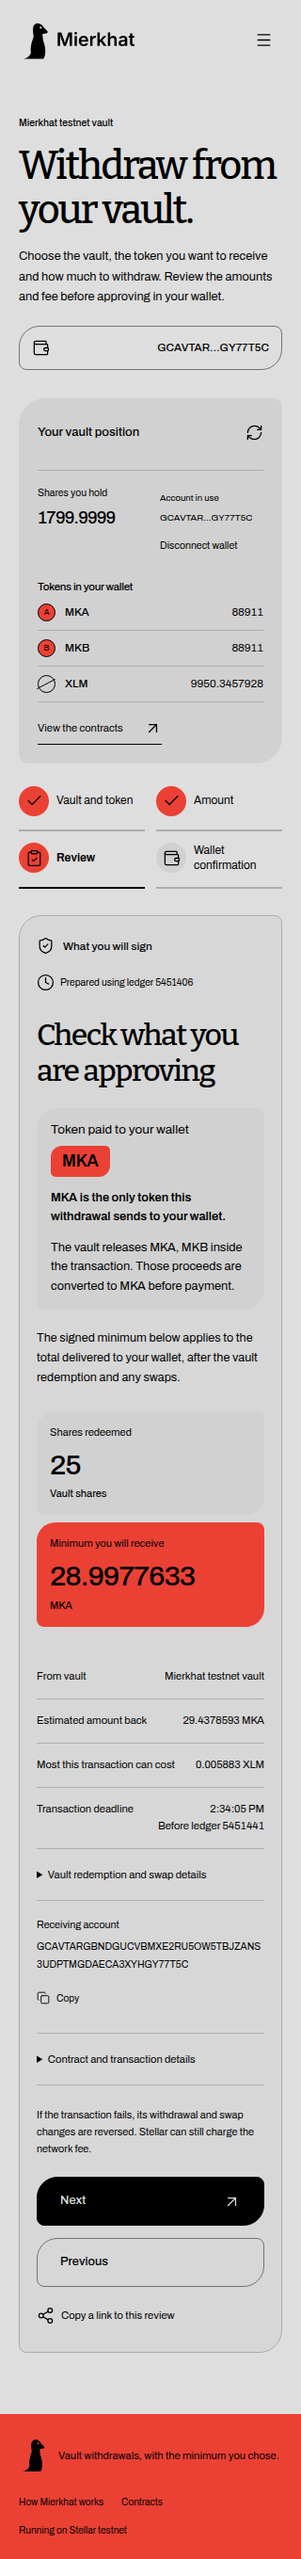
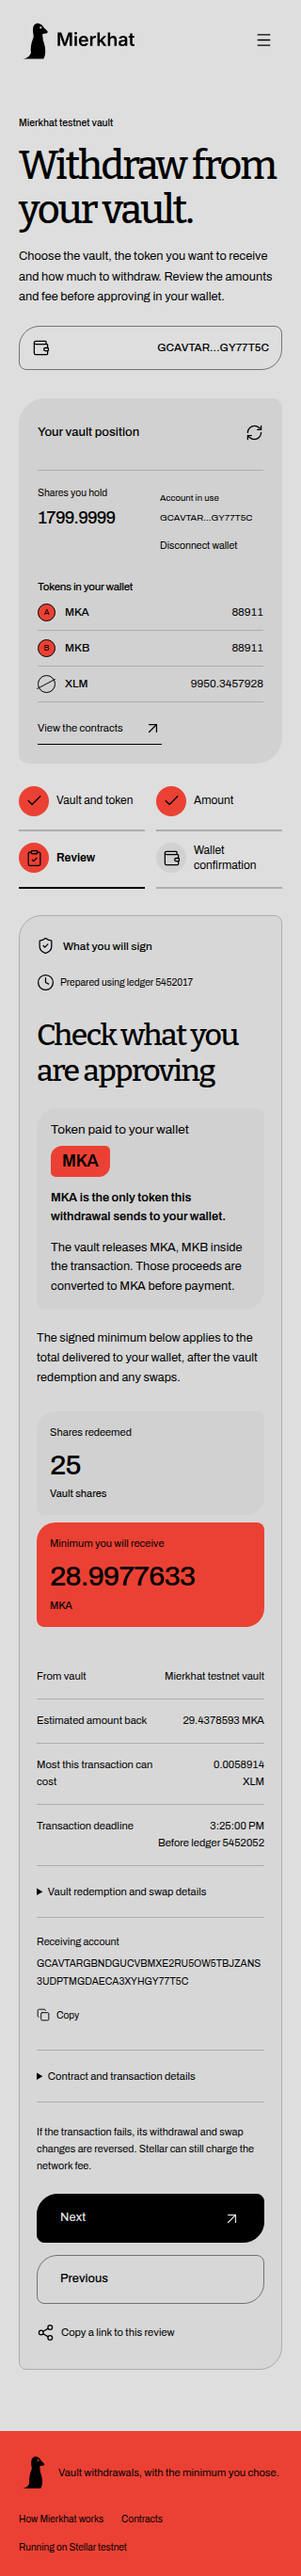
Keep verified wallet setup ready when switching withdrawal tokens
Implements verified combined source step d7248b20549db1135803c66f71227121214a9290.

diff --git a/src/pages/Workspace.tsx b/src/pages/Workspace.tsx
@@ -72,6 +72,8 @@ export function Workspace({
   selection,
   onLockChange,
   positionSelected = true,
+  initialAccount,
+  onAccountChange,
 }: {
   bundle: DeploymentBundle;
   identity?: WalletIdentity;
@@ -82,6 +84,8 @@ export function Workspace({
   selection?: ReactNode;
   onLockChange?: (locked: boolean) => void;
   positionSelected?: boolean;
+  initialAccount?: AccountState;
+  onAccountChange?: (account: AccountState, bundle: DeploymentBundle) => void;
 }) {
   const editorId = useId();
   const [step, setStep] = useState<0 | 1 | 2 | 3>(0);
@@ -100,7 +104,9 @@ export function Workspace({
     heading.scrollIntoView({ block: "start", behavior: "instant" });
     focusScreen.current = false;
   }, [step]);
-  const [account, setAccount] = useState<AccountState>(),
+  const [account, setAccount] = useState<AccountState | undefined>(
+      initialAccount,
+    ),
     [shares, setShares] = useState(""),
     [sizeMode, setSizeMode] = useState<"shares" | "target">("shares"),
     [target, setTarget] = useState(""),
@@ -147,12 +153,13 @@ export function Workspace({
     try {
       const result = await api.account(owner, bundle.epoch);
       setAccount(result);
+      onAccountChange?.(result, bundle);
     } catch (e) {
       setError(e);
     } finally {
       setBalanceLoading(false);
     }
-  }, [owner, bundle.epoch]);
+  }, [owner, bundle.epoch, onAccountChange]);
   useEffect(() => {
     void refresh();
     const timer = setInterval(() => {
@@ -797,7 +804,8 @@ export function Workspace({
               <>
                 <section className="withdrawal-selection-next">
                   <p>{t("withdrawal.selection_intro")}</p>
-                  {!trusted && (
+                  {!account && <Busy label={t("withdrawal.checking_wallet")} />}
+                  {account && !trusted && (
                     <p className="notice">
                       <a href="#wallet-tools">{t("withdrawal.setup_needed")}</a>
                     </p>
@@ -816,7 +824,7 @@ export function Workspace({
                 <details
                   className="workspace-extras"
                   id="wallet-tools"
-                  open={!trusted}
+                  open={!!account && !trusted}
                 >
                   <summary>{t("withdrawal.tools")}</summary>
                   <p>{t("withdrawal.tools_note")}</p>
@@ -886,7 +894,7 @@ export function Workspace({
                         })
                       : t("deposit.intro")}
                   </p>
-                  {!trusted && (
+                  {account && !trusted && (
                     <p className="notice">
                       <a href="#wallet-tools">{t("withdrawal.setup_needed")}</a>
                     </p>
@@ -1334,7 +1342,7 @@ export function Workspace({
                 <details
                   className="workspace-extras"
                   id="wallet-tools"
-                  open={!trusted}
+                  open={!!account && !trusted}
                 >
                   <summary>{t("withdrawal.tools")}</summary>
                   <p>{t("withdrawal.tools_note")}</p>

diff --git a/src/pages/PositionsWorkspace.tsx b/src/pages/PositionsWorkspace.tsx
@@ -2,6 +2,7 @@ import { useCallback, useEffect, useRef, useState } from "react";
 import {
   formatAmount,
   type DeploymentBundle,
+  type AccountState,
   type PositionsState,
 } from "@mierkhat/sdk";
 import { api, bundles } from "../api.js";
@@ -32,6 +33,23 @@ export function PositionsWorkspace({
     [error, setError] = useState<unknown>(),
     [loading, setLoading] = useState(false),
     [locked, setLocked] = useState(false);
+  const [walletSnapshot, setWalletSnapshot] = useState<{
+    account: AccountState;
+    vault: string;
+    networkPassphrase: string;
+    readAt: number;
+  }>();
+  const onAccountChange = useCallback(
+    (account: AccountState, route: DeploymentBundle) => {
+      setWalletSnapshot({
+        account,
+        vault: route.profile.vault.address,
+        networkPassphrase: route.networkPassphrase,
+        readAt: Date.now(),
+      });
+    },
+    [],
+  );
   const focusAfterChange = useRef<string | undefined>(undefined);
   const lockedRef = useRef(false);
   const onLockChange = useCallback((value: boolean) => {
@@ -218,6 +236,22 @@ export function PositionsWorkspace({
       />
     </section>
   ) : undefined;
+  // Only selection/navigation uses this recent snapshot. Quotes, preparation and
+  // signing still verify the selected deployment and current network state.
+  const initialAccount =
+    walletSnapshot &&
+    walletSnapshot.account.owner === identity?.address &&
+    walletSnapshot.networkPassphrase === bundle.networkPassphrase &&
+    walletSnapshot.vault === bundle.profile.vault.address &&
+    Date.now() - walletSnapshot.readAt < 30000 &&
+    bundle.tokens.every((token) =>
+      walletSnapshot.account.tokens.some(
+        (known) =>
+          known.address === token.address && known.decimals === token.decimals,
+      ),
+    )
+      ? walletSnapshot.account
+      : undefined;
   return (
     <Workspace
       key={bundle.epoch}
@@ -230,6 +264,8 @@ export function PositionsWorkspace({
       selection={selection}
       positionSelected={mode === "deposit" || !!held}
       onLockChange={onLockChange}
+      initialAccount={initialAccount}
+      onAccountChange={onAccountChange}
     />
   );
 }

diff --git a/README.md b/README.md
@@ -98,3 +98,5 @@ Read [CONTRIBUTING.md](CONTRIBUTING.md) before opening a pull request. Report se
 ## License
 
 Mierkhat-authored code uses the [MIT license](LICENSE). Dependencies, upstream protocols, fonts where bundled and brand usage retain the terms described in [third-party notices](THIRD_PARTY_NOTICES.md).
+
+Output token changes retain a recently verified wallet and share balance for the same account, network and vault while fresh reads continue. An unknown wallet setup shows a checking status; only confirmed incomplete setup shows the setup notice. Quotes and reviews are still cleared when the route changes.
